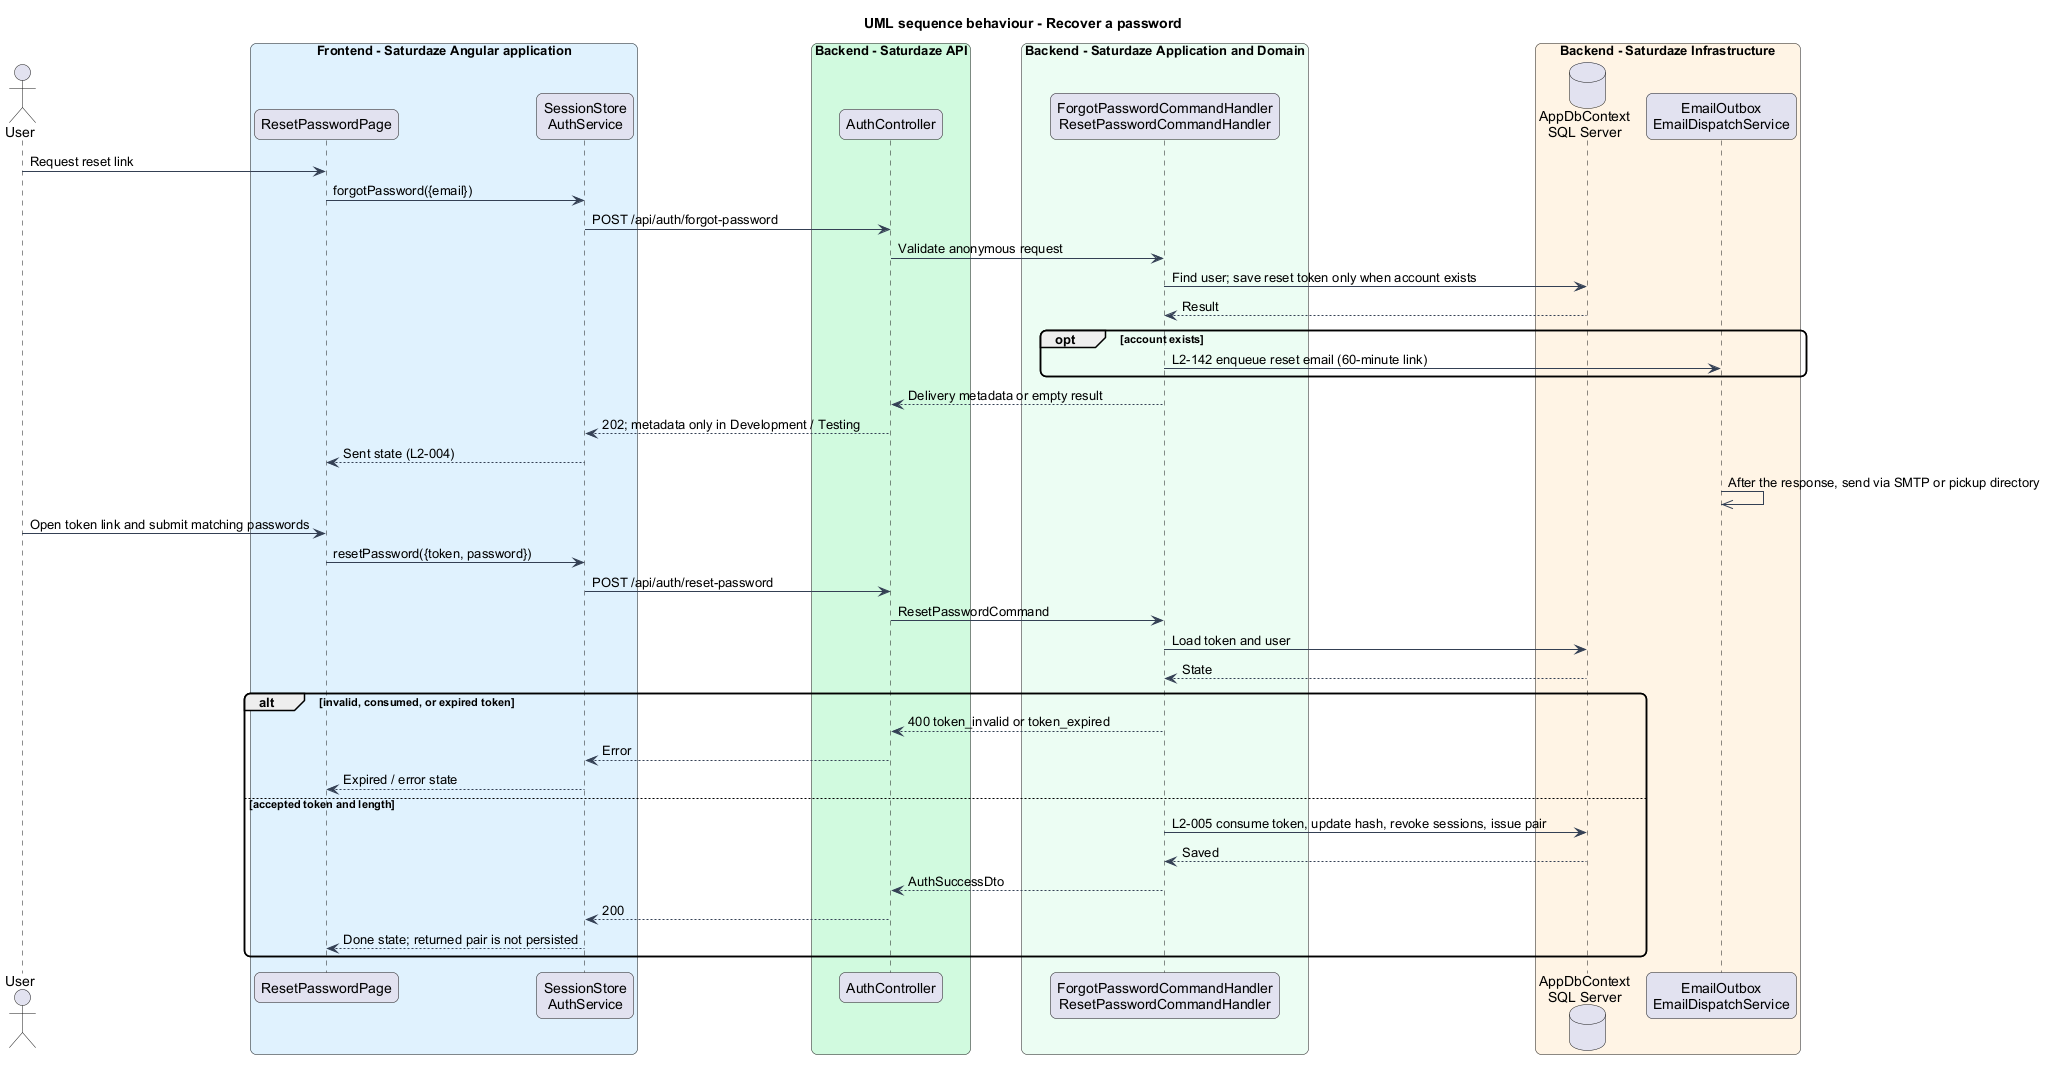
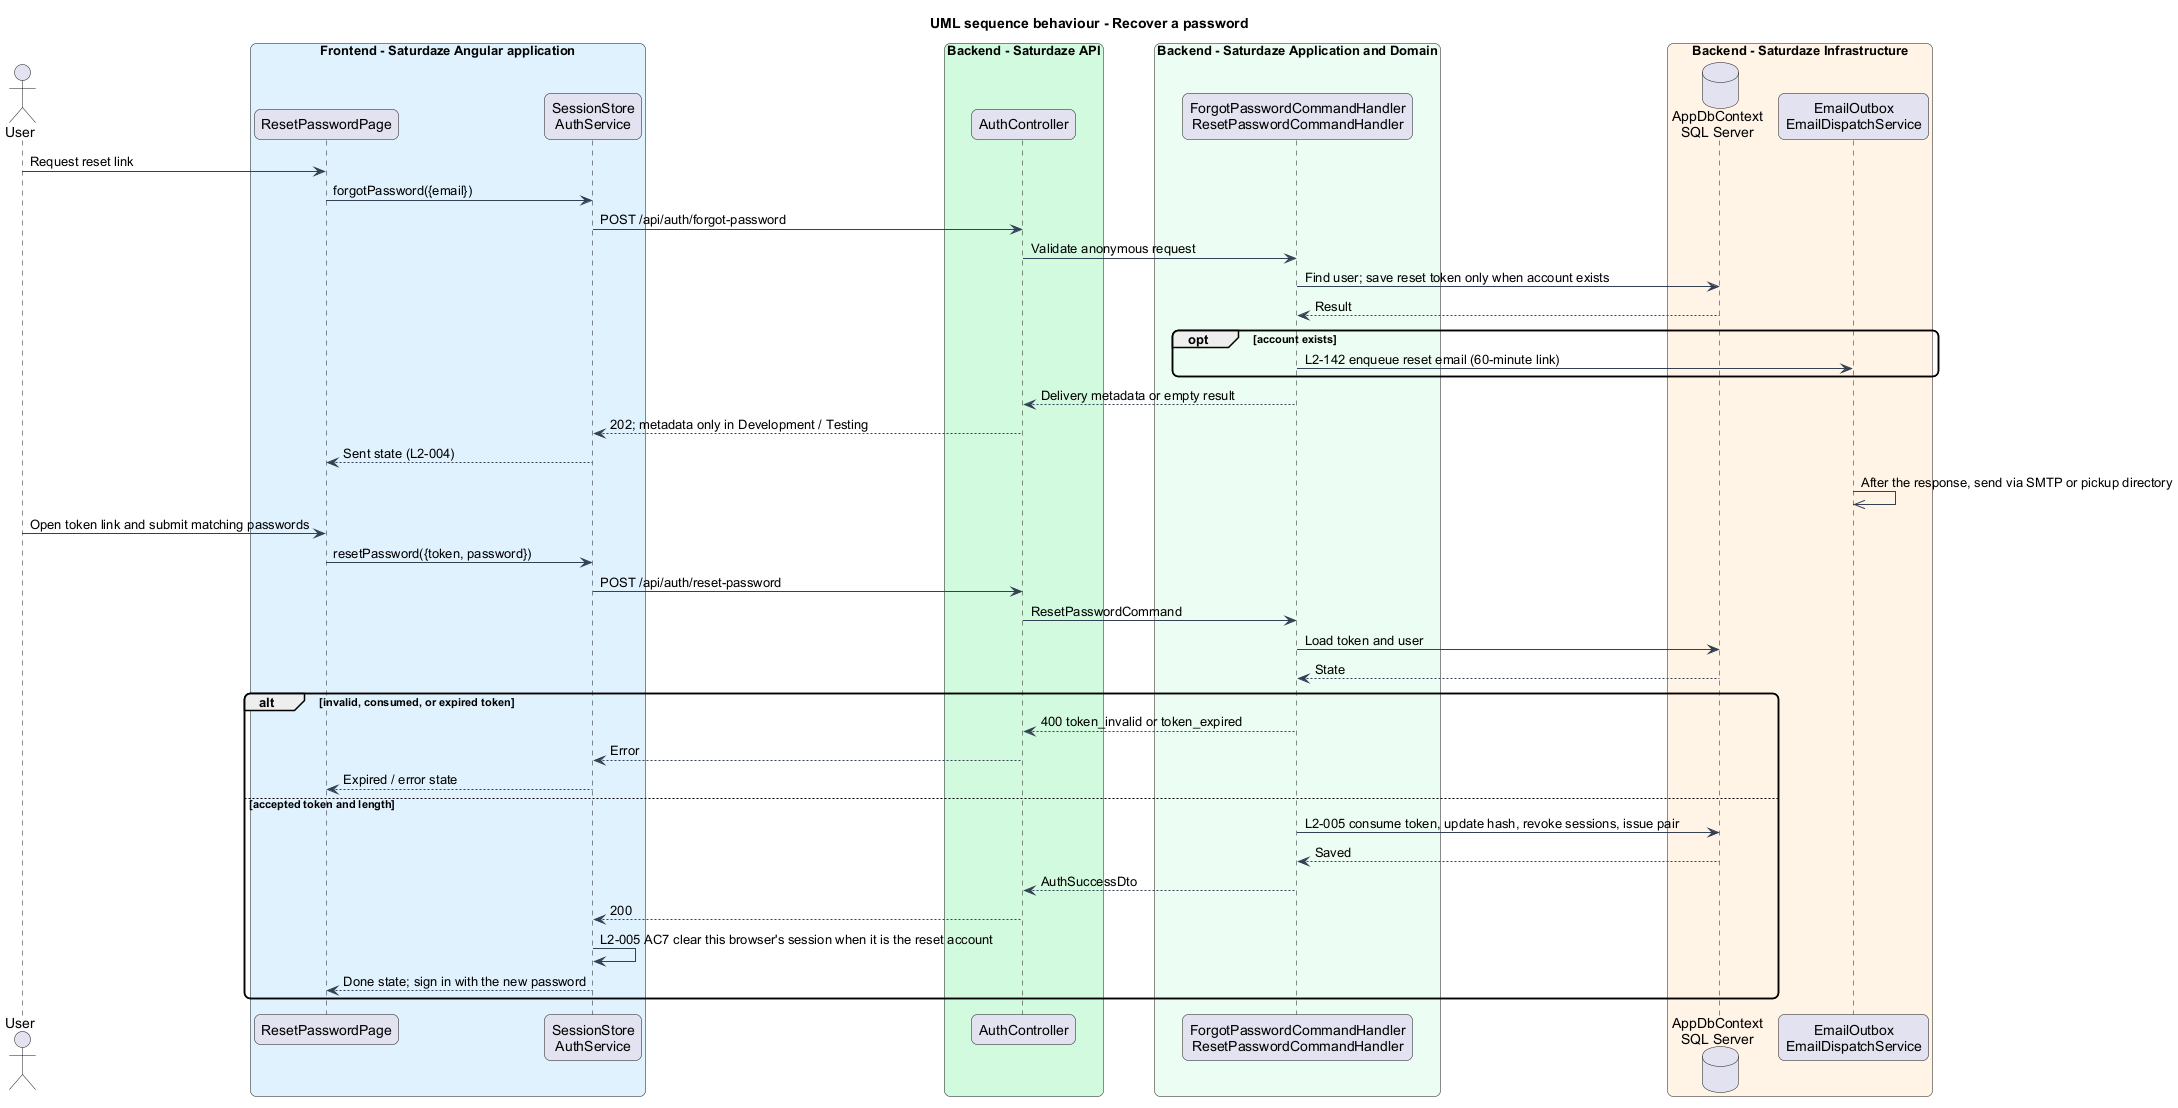
Sign this browser out of the account a reset revokes (L2-005 AC7)
The reset endpoint already revoked every refresh token; the browser kept the
dead pair until a refresh failed. AuthService.resetPassword now returns the
account and SessionStore clears a matching session. A reset link (?token=)
also opens in a signed-in browser instead of bouncing to the weekend.

diff --git a/frontend/projects/api/src/lib/services/auth.service.spec.ts b/frontend/projects/api/src/lib/services/auth.service.spec.ts
@@ -179,11 +179,6 @@ describe('AuthService', () => {
       '/api/auth/resend-verification',
       () => service.resendVerification({ email: 'quinn@example.com' }),
     ],
-    [
-      'resetPassword',
-      '/api/auth/reset-password',
-      () => service.resetPassword({ token: 't', password: 'p' }),
-    ],
     ['verifyEmail', '/api/auth/verify-email', () => service.verifyEmail({ token: 't' })],
   ] as const)('%s', (_name, path, call) => {
     it(`POSTs ${path}`, async () => {
@@ -198,6 +193,27 @@ describe('AuthService', () => {
       const promise = call();
       httpMock
         .expectOne(`${BASE}${path}`)
+        .flush(
+          { code: 'token_invalid', message: 'bad' },
+          { status: 400, statusText: 'Bad Request' },
+        );
+      await expect(promise).rejects.toEqual({ code: 'token_invalid', message: 'bad' });
+    });
+  });
+
+  describe('resetPassword', () => {
+    it('POSTs /api/auth/reset-password and resolves to the account it reset', async () => {
+      const promise = service.resetPassword({ token: 't', password: 'p' });
+      const req = httpMock.expectOne(`${BASE}/api/auth/reset-password`);
+      expect(req.request.method).toBe('POST');
+      req.flush(SUCCESS);
+      await expect(promise).resolves.toEqual(SUCCESS.user);
+    });
+
+    it('rejects on an error response', async () => {
+      const promise = service.resetPassword({ token: 't', password: 'p' });
+      httpMock
+        .expectOne(`${BASE}/api/auth/reset-password`)
         .flush(
           { code: 'token_invalid', message: 'bad' },
           { status: 400, statusText: 'Bad Request' },

diff --git a/e2e/tests/reset-password.spec.ts b/e2e/tests/reset-password.spec.ts
@@ -111,6 +111,24 @@ test.describe("Reset password — new password", () => {
     await expect(r.passwordRule("A number or symbol")).toHaveClass(/rules__item--met/);
   });
 
+  // Traces to: L2-005 AC7
+  test("a reset signs this browser out of the account it resets", async ({ page, pages, request, signIn }) => {
+    const account = await registerThrowaway(request, "reset");
+    await signIn(account);
+    const token = await devToken(request, "/api/auth/forgot-password", account.email);
+
+    await page.goto(`/reset-password?token=${encodeURIComponent(token)}`);
+    const r = pages.resetPassword;
+    await r.waitForReady();
+    await r.newPasswordInput().fill("Brand-new-pass-1");
+    await r.confirmPasswordInput().fill("Brand-new-pass-1");
+    await r.savePasswordButton().click();
+    await expect(r.cardTitle()).toHaveText("Password updated");
+
+    await page.goto("/weekend");
+    await page.waitForURL("**/sign-in**");
+  });
+
   test("passwords that do not match block the save", async ({ page, pages }) => {
     await page.goto("/reset-password?token=anything");
     const r = pages.resetPassword;

diff --git a/frontend/projects/saturdaze/src/app/app.routes.spec.ts b/frontend/projects/saturdaze/src/app/app.routes.spec.ts
@@ -1,7 +1,7 @@
 import { TestBed } from '@angular/core/testing';
 import { Route, Router, UrlTree, provideRouter } from '@angular/router';
 
-import { requireAdmin, requireAnonymous, requireAuth } from 'api';
+import { requireAdmin, requireAnonymous, requireAnonymousUnlessToken, requireAuth } from 'api';
 
 import { routes } from './app.routes';
 
@@ -57,9 +57,11 @@ describe('app.routes', () => {
   });
 
   it('keeps signed-in users off the public entry pages, and verify-email open to everyone', () => {
-    for (const path of ['', 'sign-in', 'create-account', 'reset-password']) {
+    for (const path of ['', 'sign-in', 'create-account']) {
       expect(find(path)?.canActivate, path).toEqual([requireAnonymous]);
     }
+    // An emailed reset link opens in a signed-in browser too (L2-005 AC7).
+    expect(find('reset-password')?.canActivate).toEqual([requireAnonymousUnlessToken]);
     for (const path of ['verify-email', 'legal', 'sample-weekend']) {
       expect(find(path)?.canActivate, path).toBeUndefined();
     }

diff --git a/frontend/projects/saturdaze/src/app/app.routes.ts b/frontend/projects/saturdaze/src/app/app.routes.ts
@@ -1,7 +1,7 @@
 import { inject } from '@angular/core';
 import { Router, Routes } from '@angular/router';
 
-import { requireAdmin, requireAnonymous, requireAuth } from 'api';
+import { requireAdmin, requireAnonymous, requireAnonymousUnlessToken, requireAuth } from 'api';
 
 import { environment } from '../environments/environment';
 
@@ -51,7 +51,7 @@ export const routes: Routes = [
   {
     path: 'reset-password',
     data: { shell: 'bare', page: 'reset-password' },
-    canActivate: [requireAnonymous],
+    canActivate: [requireAnonymousUnlessToken],
     loadComponent: () =>
       import('./pages/reset-password/reset-password.page').then((m) => m.ResetPasswordPage),
   },

diff --git a/frontend/projects/api/src/lib/services/session-store.ts b/frontend/projects/api/src/lib/services/session-store.ts
@@ -275,7 +275,11 @@ export class SessionStore implements ISessionStore {
   async resetPassword(req: ResetPasswordRequest): Promise<void> {
     this._error.set(null);
     try {
-      await this.auth.resetPassword(req);
+      const account = await this.auth.resetPassword(req);
+      // The reset revoked every refresh token for that account, so a session
+      // this browser holds for it is dead: drop it rather than wait for the
+      // next refresh to fail (L2-005 AC7).
+      if (account && this._user()?.id === account.id) this.clearSession();
     } catch (e) {
       const err = asAuthError(e, 'token_invalid');
       this._error.set(err);

diff --git a/frontend/projects/api/src/lib/services/auth.service.ts b/frontend/projects/api/src/lib/services/auth.service.ts
@@ -271,9 +271,12 @@ export class AuthService implements IAuthService {
    *
    * @returns {Promise<void>} The result of the operation
    */
-  async resetPassword(req: ResetPasswordRequest): Promise<void> {
+  async resetPassword(req: ResetPasswordRequest): Promise<User> {
     try {
-      await firstValueFrom(this.http.post<void>(`${this.baseUrl}/api/auth/reset-password`, req));
+      const dto = await firstValueFrom(
+        this.http.post<AuthSuccessDto>(`${this.baseUrl}/api/auth/reset-password`, req),
+      );
+      return this.toUser(dto.user);
     } catch (e) {
       rethrowAsAuthError(e);
     }

diff --git a/frontend/projects/api/src/lib/auth/require-anonymous.guard.ts b/frontend/projects/api/src/lib/auth/require-anonymous.guard.ts
@@ -19,3 +19,11 @@ export const requireAnonymous: CanActivateFn = () => {
   if (!session.isAuthenticated()) return true;
   return router.createUrlTree([routes.home]);
 };
+
+/**
+ * `requireAnonymous`, except an emailed reset link (`?token=`) opens even in
+ * a signed-in browser: the link proves ownership, and the reset then signs
+ * that browser out of the account (L2-005 AC7).
+ */
+export const requireAnonymousUnlessToken: CanActivateFn = (route, state) =>
+  route.queryParamMap.has('token') || requireAnonymous(route, state);

diff --git a/frontend/projects/api/src/lib/services/auth.service.contract.ts b/frontend/projects/api/src/lib/services/auth.service.contract.ts
@@ -76,9 +76,9 @@ export interface IAuthService {
    *
    * @param {ResetPasswordRequest} req - The req
    *
-   * @returns {Promise<void>} The result of the operation
+   * @returns {Promise<User>} The account whose password was reset
    */
-  resetPassword(req: ResetPasswordRequest): Promise<void>;
+  resetPassword(req: ResetPasswordRequest): Promise<User>;
   /**
    * Preview Invitation — `POST /api/auth/invitation` (L2-127).
    *

diff --git a/docs/detailed-designs/identity-and-access/recover-password/README.md b/docs/detailed-designs/identity-and-access/recover-password/README.md
@@ -16,7 +16,7 @@ The request path always presents the same response for registered and unregister
 
 `ForgotPasswordCommandHandler` invalidates earlier reset credentials and stores a hashed token expiring after 60 minutes. The sent and expired states quote that figure ("The link works for 60 minutes.", "Reset links last 60 minutes. Ask for a fresh one."), so the copy and the handler change together (L2-005 AC5, AC6). After saving, the handler enqueues the reset email (`AccountEmails.PasswordReset`, linking `{AppOrigin}/reset-password?token=…` and stating the 60-minute life) on `IEmailOutbox`; `EmailDispatchService` sends it after the response, so known and unknown addresses answer alike and an unknown address gets no mail (L2-004 AC2, L2-142). `AuthController.DevDelivery()` also returns the token in Development and Testing for automated tests; other environments return an empty accepted response.
 
-`ResetPasswordCommandHandler` consumes a valid token, updates the password hash, revokes active refresh tokens, and returns a newly issued session. The current browser reset method ignores that session and displays done.
+`ResetPasswordCommandHandler` consumes a valid token, updates the password hash, revokes active refresh tokens, and returns a newly issued session. `AuthService.resetPassword()` returns the reset account; when this browser holds a session for that same account, `SessionStore.resetPassword()` clears it, since the server has just revoked it, and the done state asks the person to sign in with the new password (L2-005 AC7). The route guard `requireAnonymousUnlessToken` lets an emailed `?token=` link open in a signed-in browser; without a token the page stays signed-out only.
 
 `PasswordPolicy` enforces the one password rule (8 or more characters including a number or symbol) and returns `weak_password` before the token is consumed (L2-143). The new-password state shows `sd-password-rules` above `sd-strength`, fed by `passwordRules()` from `shared/password-strength.ts`; the same function backs the form validator, so Save stays disabled until both rules are met and the confirmation matches. A mismatched confirmation shows "Passwords do not match." on that field (L2-005 AC3). Confirmation is checked in the browser, not a separate API field.
 

diff --git a/docs/specs/L2.md b/docs/specs/L2.md
@@ -67,6 +67,7 @@ The system shall accept a reset token plus a new password and confirmation, vali
 4. Given a password shorter than 8 characters, or missing a number/symbol, when the user types, then an inline rule-checklist shall indicate which rules are not yet satisfied.
 5. Given a reset link requested at time T, when it is used at T + 59 minutes, then it shall be accepted, and when it is used at T + 61 minutes, then it shall be rejected as expired (`token_expired`); a reset link is valid for 60 minutes. (Added 2026-10-15, issue 88.)
 6. Given the request, sent and expired states of the reset-password screen, then they shall state that same duration: "The link works for 60 minutes." after a link is sent and "Reset links last 60 minutes. Ask for a fresh one." on an expired link. (Added 2026-10-15, issue 88.)
+7. Given this browser holds a session for the account whose password is reset, when the reset succeeds, then that session (revoked by the reset) shall be cleared from the browser, so the next protected page asks the person to sign in with the new password. (Added 2026-10-18.)
 
 ---
 
